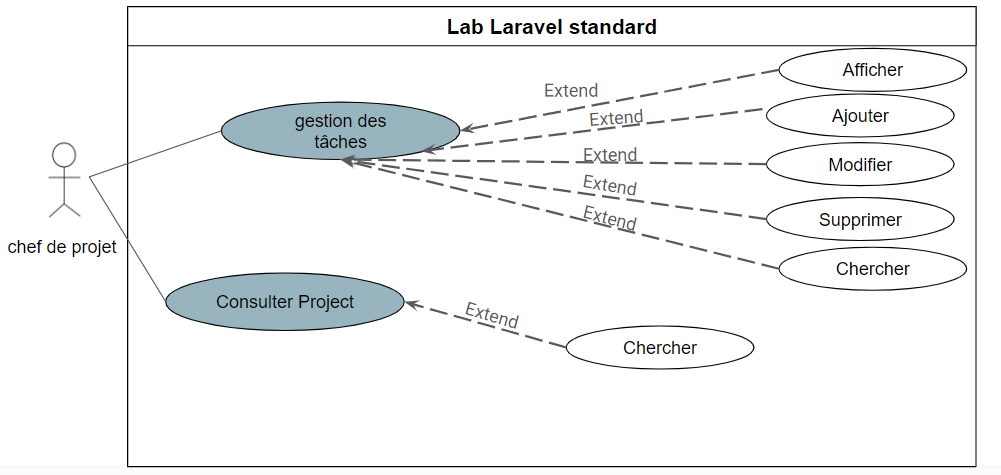
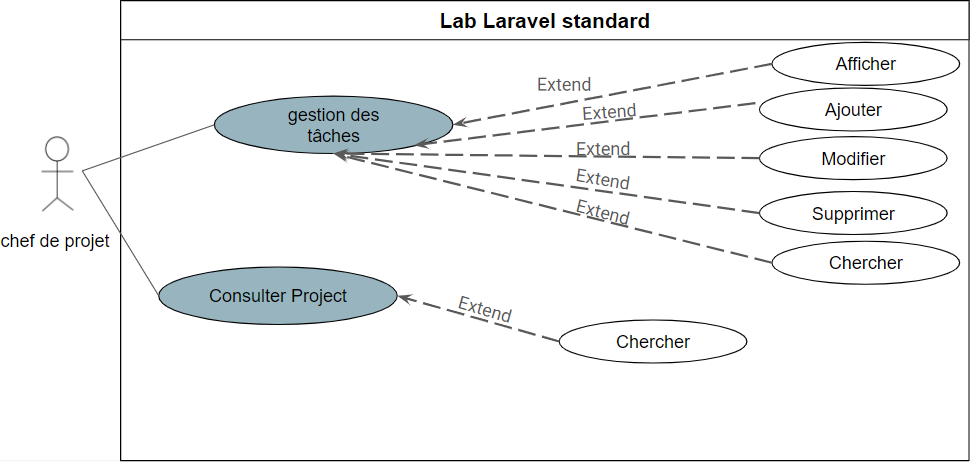
Analyse :Diagramme de cas d'utilisation

diff --git a/docs/analyse/analyse.md b/docs/analyse/analyse.md
@@ -3,37 +3,14 @@ layout: default
 chapitre: Analyse
 order: 3
 ---
-<!-- new slide -->
-
 # Analyse
-<!-- new slide -->
-## Empathie map 
-<!-- new slide -->
-## Définir le probléme
-![Définir le probléme](./images/Définir-le-probléme.jpg){:width="500px" }
-*Définir le probléme*
-<!-- note -->
-Après avoir réalisé un lab Laravel CRUD basique, il est devenu évident qu'une version plus avancée, appelée CRUD standard, est nécessaire pour répondre à des exigences fonctionnelles plus complexes. 
-Ce nouveau lab doit intégrer des fonctionnalités avancées telles que la gestion : 
- - validation de formulaire
- - La pagination
- - La recherche
- - La gestion des images,
- - Les relations Eloquent plus complexes comme les relations Many-to-Many et Polymorphiques.
-  
-
-<!-- new slide -->
-## Idéation 
-
-![Idéation](./images/analyse.jpeg){:width="500px" }
-*Idéation*
-<!-- note -->
-L'objectif est de fournir une application CRUD standard pour expérimenter et comprendre les concepts fondamentaux de Laravel tout en mettant en œuvre des opérations de base sur une entité de données.
-
+ {:class="sectionHeader"}
+ 
 <!-- new slide -->
 ## Diagramme de cas d'utilisation
 
- ![Diagramme de cas d'utilisation](./images/Capture.PNG){:width="500px" }
-*Diagramme de cas d'utilisation*
+ ![Diagramme de cas d'utilisation](./images/use-cas.png){:width="750px" }
+*Figure: Diagramme de cas d'utilisation*
 
 
+<!-- new slide -->
